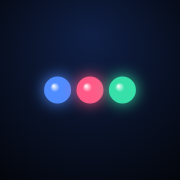
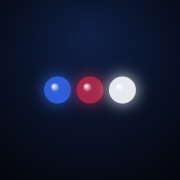
Nouvelle palette : bleu saphir, bordeaux grenat, blanc nacré
Claude-Session: https://claude.ai/code/session_012gaqdZRYVbzACc8fjij3rZ

Changed region(s): [[0.2222, 0.3889, 0.8056, 0.6111]]

diff --git a/index.html b/index.html
@@ -19,7 +19,7 @@
   color-scheme: dark;
   --bg:#03050a; --cell:#0b1122; --cell2:#0e1630; --line:#1b2742;
   --fg:#e8eefc; --muted:#7f8db0;
-  --muscu:#4f8cff; --cardio:#ff5a87; --revi:#36e0a8; --gold:#ffc857;
+  --muscu:#2f5ed8; --cardio:#a3274a; --revi:#e6e8ee; --gold:#ffc857;
   --display:"Sora","Inter",system-ui,sans-serif;
   --body:"Inter",system-ui,-apple-system,sans-serif;
 }
@@ -129,7 +129,7 @@ button:focus-visible{outline:2px solid var(--fg);outline-offset:3px}
 </main>
 
 <script>
-const KEY='grind.v1', KINDS=['m','c','r'], COLORS={m:'#4f8cff',c:'#ff5a87',r:'#36e0a8'};
+const KEY='grind.v1', KINDS=['m','c','r'], COLORS={m:"#2f5ed8",c:"#a3274a",r:"#e6e8ee"};
 let data={};
 try{data=JSON.parse(localStorage.getItem(KEY))||{}}catch(e){data={}}
 const save=()=>{try{localStorage.setItem(KEY,JSON.stringify(data))}catch(e){}};

diff --git a/sw.js b/sw.js
@@ -1,5 +1,5 @@
 // Cache simple pour que l'appli s'ouvre même sans réseau.
-const CACHE = 'grind-v1';
+const CACHE = 'grind-v2';
 const FILES = ['./', './index.html', './manifest.json', './icons/icon-180.png', './icons/icon-192.png', './icons/icon-512.png'];
 
 self.addEventListener('install', e => {
